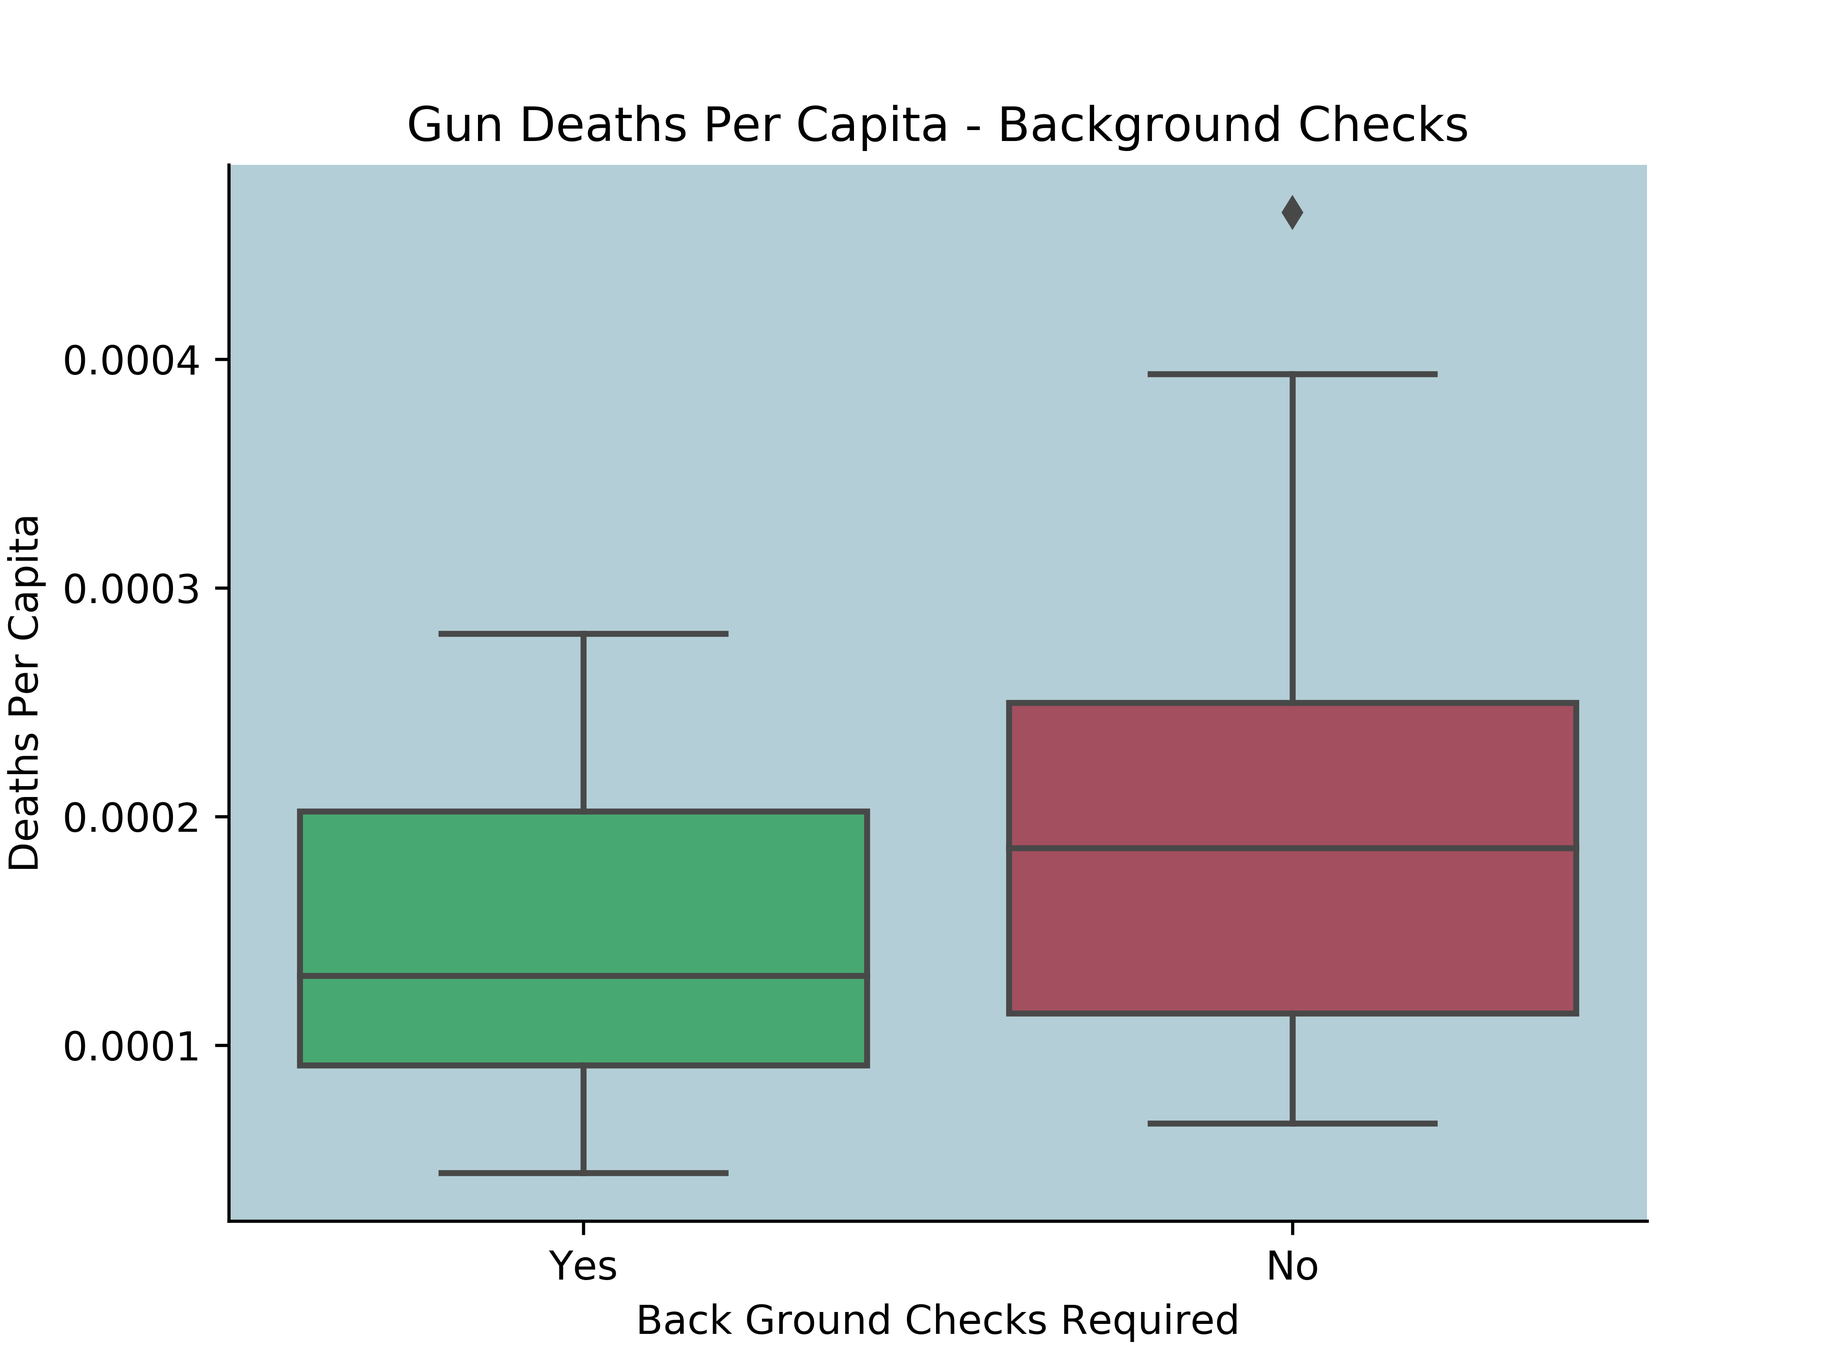
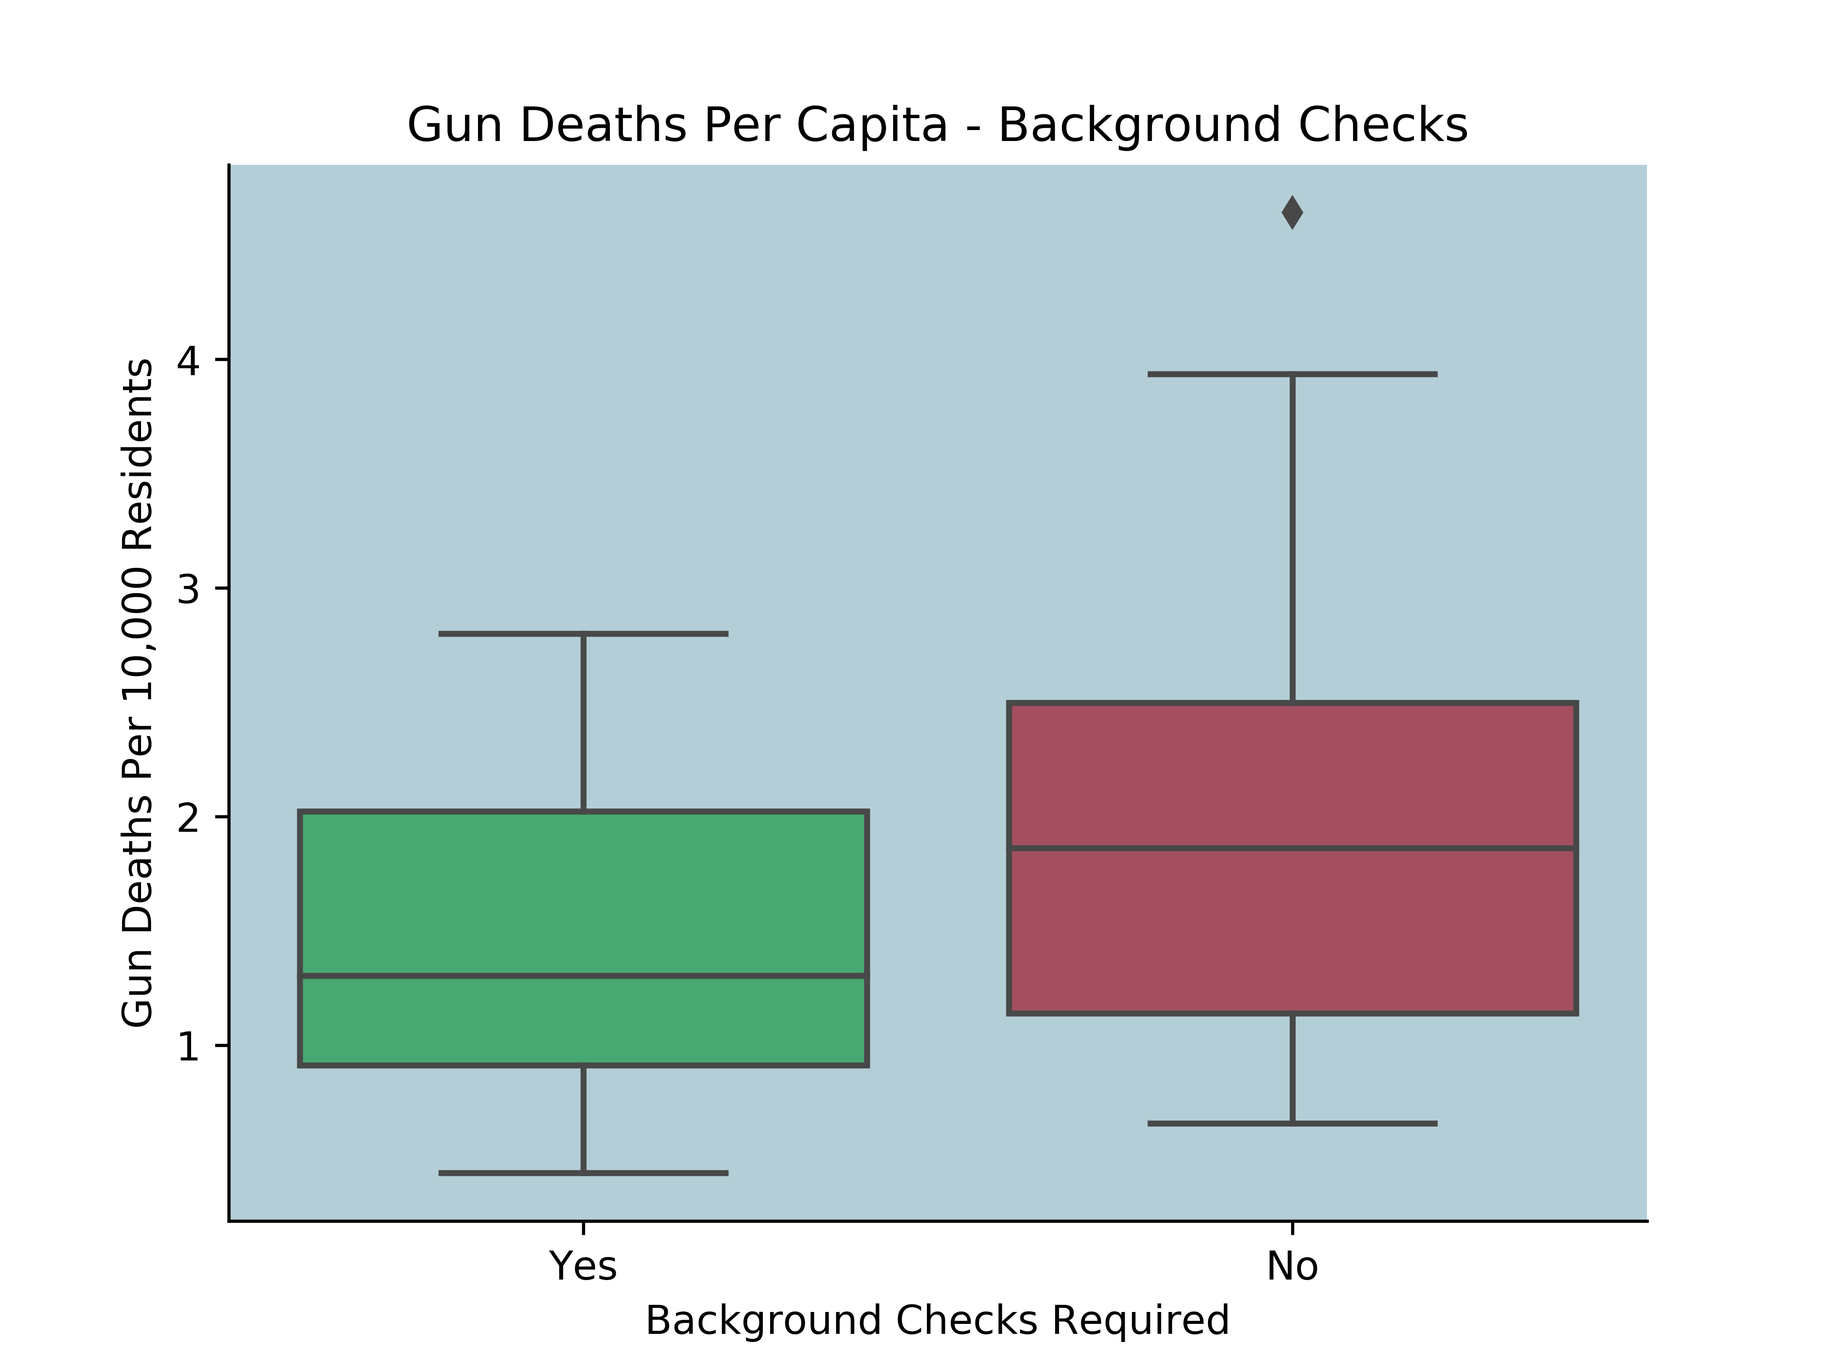
Completed writeup rought draft.

Changed region(s): [[0.0, 0.25, 0.0938, 0.7812], [0.3438, 0.9375, 0.6875, 1.0]]

diff --git a/explore/gunviolence.py b/explore/gunviolence.py
@@ -16,6 +16,7 @@ class GunViolenceTool(object):
 
         self.palette = palette_dicts.soft_colors
         self.box_pal = palette_dicts.box_plot_colors
+        self.box_pal_5 = palette_dicts.box_plot_colors_5
 
         # Loading in files
         self.cleaned_file = "../data/cleaned/gun_d_with_pop.csv"
@@ -53,7 +54,7 @@ class GunViolenceTool(object):
         else:
             self.deaths_w_pop = pd.read_csv(self.cleaned_file)
 
-# Data Cleaning Methods --------
+# Data Cleaning Methods --------------------------------------------------------
 
     def make_population_dataset(self, out_path):
         fpath = "../data/cleaned/tmp.csv"
@@ -83,6 +84,7 @@ class GunViolenceTool(object):
 
     def bgc_t_test(self, df):
         df["d_per_capita"] = df["n_killed"] / df["st_pop"]
+        df["Gun Deaths Per 10000 Residents"] = df["d_per_capita"] * 10000
         df_bgc = df.loc[df["bg_check"] == 1]
         df_no_bgc = df.loc[df["bg_check"] == 0]
 
@@ -92,8 +94,20 @@ class GunViolenceTool(object):
         print(f"P Value: {p_val}")
         return(df)
 
+
+    def state_rank_anova(self, df):
+        df["d_per_capita"] = df["n_killed"] / df["st_pop"]
+        df["Gun Deaths Per 10000 Residents"] = df["d_per_capita"] * 10000
+        df = self.set_state_rank_colors(df)
+        groups = df.groupby("rank_group")
+        rank_groups = [data[1]["d_per_capita"] for data in groups]
+        print(rank_groups)
+        F, p = stats.f_oneway(rank_groups[0], rank_groups[1], rank_groups[2],
+                              rank_groups[3], rank_groups[4])
+        print(f"F Stat: {F}")
+        print(f"p value: {p}")
+
 # Modeling Methods -------------------------------------------------------------
-# sklearn
 
     def death_pop_reg(self):
 
@@ -101,7 +115,10 @@ class GunViolenceTool(object):
                        self.deaths_w_pop["st_pop"]).fit()
 
         predictions = model.predict(self.deaths_w_pop["st_pop"])
+        print(predictions)
+        print(predictions.params)
         return model.summary()
+
 
 # Plotting Helper Methods ------------------------------------------------------
 
@@ -275,12 +292,26 @@ class GunViolenceTool(object):
         df = self.set_bgc_colors(df)
         df = self.bgc_t_test(df)
         df["bgc_text"] = np.where(df["bg_check"] == 1, "Yes", "No")
-        ax = sns.boxplot(df["bgc_text"], df["d_per_capita"], data=df,
-                         palette=self.box_pal)
+        ax = sns.boxplot(df["bgc_text"], df["Gun Deaths Per 10000 Residents"],
+                         data=df, palette=self.box_pal)
         ax.set_facecolor(self.palette["back_grey"])
         sns.despine()
         plt.title("Gun Deaths Per Capita - Background Checks")
-        plt.xlabel("Back Ground Checks Required")
-        plt.ylabel("Deaths Per Capita")
+        plt.xlabel("Background Checks Required")
+        plt.ylabel("Gun Deaths Per 10,000 Residents")
         plt.savefig('../figs/bgc_box.png', format="png", dpi=600)
+        plt.show()
+
+
+    def state_rank_box_plot(self, df):
+        df = self.set_state_rank_colors(df)
+        df = self.bgc_t_test(df)
+        ax = sns.boxplot(df["rank_group"], df["Gun Deaths Per 10000 Residents"],
+                         data=df, palette=self.box_pal_5)
+        ax.set_facecolor(self.palette["back_grey"])
+        sns.despine()
+        plt.title("Gun Deaths Per Capita - State Rank")
+        plt.xlabel("State Gun Law Rank")
+        plt.ylabel("Gun Deaths Per 10,000 Residents")
+        plt.savefig('../figs/st_rank_box.png', format="png", dpi=600)
         plt.show()

diff --git a/explore/palette_dicts.py b/explore/palette_dicts.py
@@ -21,3 +21,11 @@ box_plot_colors = [
                    "#38b86e",
                    "#b14156",
                   ]
+
+box_plot_colors_5 = [
+                     "#405bd0",
+                     "#38b86e",
+                     "#ffd079",
+                     "#ee7b58",
+                     "#b14156"
+                    ]

diff --git a/explore/rungun.py b/explore/rungun.py
@@ -1,4 +1,4 @@
 from gunviolence import GunViolenceTool
 
 gvt = GunViolenceTool()
-print(gvt.bgc_box_plot(gvt.deaths_w_pop))
+print(gvt.state_rank_anova(gvt.deaths_w_pop))

diff --git a/docs/writeup/README.md b/docs/writeup/README.md
@@ -56,21 +56,44 @@ The regression plots with custom `matplotlib` styling code in this project are c
 
 ## Results
 
-The first analysis run was to determine whether or not a single policy could be enacted in order to diminish the number of gun deaths in a particular state. In order to accomplish this an Ordinary Least Squares (OLS) linear regression model was created, using state population as the predictor variable. The regression determined that a population increase of x resulted in a increase of y gun deaths per each state. Though it could be argued that this is an imperfect collection of variables, and that variables such as population density within a state, or percentage of urban population within a state could be more predictive of the amount of gun deaths a state has had within the last five years these metrics were not gathered for the analysis, relying instead on the assumption that these factors would be normally distributed throughout the states, and would therefore not strongly effect the analysis.
+### Background Checks.
+
+The first analysis run was to determine whether or not a single policy could be enacted in order to diminish the number of gun deaths in a particular state. In order to accomplish this an Ordinary Least Squares (OLS) linear regression model was created, using state population as the predictor variable (F(1, 49) = 439.3, 0.000) with an R<sup>2</sup> of 0.900). The regression determined that a population increase of 5,000 resulted in a increase of 1 gun death per each state (over the five year period from which the data was gathered). Though it could be argued that this is an imperfect collection of variables, and that variables such as population density within a state, or percentage of urban population within a state could be more predictive of the amount of gun deaths a state has had within the last five years these metrics were not gathered for the analysis, relying instead on the assumption that these factors would be normally distributed throughout the states, and would therefore not strongly effect the analysis.
 
 |![Figure1-1](/figs/bgc_reg.png) |
 |:--:|
 | _Back Ground Checks Regression Plot_ |
 |_Above: A scatterplot with a regression line drawn, expressing the relationship between state population and the amount of gun deaths in that state. Red points indicate states without background checks for firearm purchases. Green points indicate states states that require background checks for firearm purposes._|
 
-After the regression analysis was run, the data was split into two groups: states that required background checks in order to purchase a firearm, and states that did not. States that did not require background checks were assigned as the control group, and states that did were assigned as the treatment group. An independent t-test was run on the two groups, the null Hypothesis being that background checks being required for the purchase of a firearm in a state had no effect on the amount of gun deaths in that state. The t-test results indicated a t-statistic of 2.1418, with a p-value of < .05, indicating a statistically significant difference. The null hypothesis was therefore rejected, and we can say that background check requirements in a particular state do have an effect on the amount of gun deaths that happened within that state.
+After the regression analysis was run, the data was split into two groups: states that required background checks in order to purchase a firearm, and states that did not. States that did not require background checks were assigned as the control group, and states that did were assigned as the treatment group. An independent t-test was run on the two groups, the null hypothesis being that background checks being required for the purchase of a firearm in a state had no effect on the amount of gun deaths in that state. The t-test results indicated a t-statistic of -2.1418, with a p-value of < .05, indicating a statistically significant difference. The null hypothesis was therefore rejected, and we can say that background check requirements in a particular state do have an effect on the amount of gun deaths that happened within that state. Furthermore, this significant difference indicates states with background checks have less gun deaths per capita than states that do not require them.
 
 |![Figure1-2](/figs/bgc_box.png) |
 |:--:|
 | _Back Ground Checks Regression Plot_ |
-|_Above: A box plot, showing the differences in means, variances, maximums and minimums in the amount of gun deaths per capita in states that require background checks for the purchase of firearms and those that do not._|
+|_Above: A box plot, showing the differences in means, variances, maximums and minimums in the amount of gun deaths per capita in states that require background checks for the purchase of firearms and those that do not. **It is worth pointing out that the y axis is not counting yearly deaths. These numbers were recorded over a period of five years.**_|
+
+### State Law Ranking
+
+The same regression plot was generated for visualizing state law rankings. The scatter plot was colored differently to indicate which states had the most restrictive ranking of gun laws, to those of which had the least restrictive. Some interesting trends came to light as a result of the visualization. It appears that the higher a state population, the less likely it is to have the least restrictive gun laws. This perhaps makes sense because per capita deaths in highly populated states are a lot larger in raw numbers than they are for their lest populated counterparts. Another point to note is that Illinois is in the top ten rank for state gun law ranks, but falls very high above it's predicted value. This is nearly the inverse of New York, which scores similarly with respect to gun law rank, but seems to fall far below it's predicted value in terms of gun deaths. This discrepancy might be worth looking into to see what other factors might play a role in reducing the amount of gun deaths.
 
 | ![Figure1-3](/figs/strank_reg.png) |
 |:--:|
 | _State Rank Regression Plot_ |
 |_Above: A scatterplot with a regression line drawn, expressing the relationship between state population and the amount of gun deaths in that state. Colors from cool (blue) to warm (red) indicate the Gifford's law center ranking, with blue being the highest to red being the lowest._|
+
+After the regression analysis was run, the data was split into their five groups according to their gun policy state law ranking. An ANOVA test was run between the groups to determine if there was a statistically significant difference in per capita gun deaths. The ANOVA results indicated a F-statistic of 1.839, with a p-value of 0.1379, greater than the .05 alpha level required for statistical significance. We therefore do not reject the null hypothesis. Further evidence needs to be gathered in order to validate the rankings given to take gun laws by Giffords Law Center if they wish to validate their rankings empirically.
+
+| ![Figure1-3](/figs/st_rank_box.png) |
+|:--:|
+| _State Rank Regression Plot_ |
+|_Above: A box plot, showing the differences in means, variances, maximums and minimums in the amount of gun deaths per capita in states with differing gun laws. Colors from cool (blue) to warm (red) indicate the Gifford's law center state ranking, with blue being the highest to red being the lowest._|
+
+## Discussion
+
+Though a statistically significant result was found in reducing the amount of gun deaths per capita when it came to implementing background check requirements, the same story could not be told when implementing other gun regulations more broadly. A reason for this could be that other measures are not as effective in reducing gun deaths as background checks are, another may be that states with more relaxed gun laws have never had a problem with gun violence before, be it because of their lower populations, or because of other variables such as population density, percentage of urban versus rural populations, or being geographically located near other states with stricter or less strict gun regulations, and are therefore less likely to enact gun regulations.
+
+There are certainly more variables than state population that could play a role in predicting gun deaths. Other work when looking into the empirical effects of gun policy would do well to take these effects into consideration.
+
+Though the ANOVA test for state law ranks did not indicate a statistically significant result, the box plot generated with the ANOVA shows that there is much higher variability in the amount of gun deaths in the lowest rank states than in the highest. This is an interesting finding, and might be worth further exploring.
+
+Delving into the data on gun violence did provide some evidence that background checks are an effective measure at reducing gun violence. This information, however, is still unable to move the needle on the debate when it comes to whether or not that prevention of loss of life is worth the tradeoff in freedom that requiring background checks would implement. As mentioned before in the introduction, data can aid us in our decision making, but it is unable to tell us what is morally correct, or what is legally pragmatic. There are still plenty of other avenues to be explored within this dataset, and I would again like to thank the uploader of this data, Kaggle User, James Ko, for both the inspiration and the ability to complete this project.

diff --git a/docs/writeup/SUMMARY.md b/docs/writeup/SUMMARY.md
@@ -1,0 +1,35 @@
+###### NOTE: For a full writeup, view the `README.md` file in this directory.
+
+## Results
+
+### Background Checks.
+
+The first analysis run was to determine whether or not a single policy could be enacted in order to diminish the number of gun deaths in a particular state. In order to accomplish this an Ordinary Least Squares (OLS) linear regression model was created, using state population as the predictor variable (F(1, 49) = 439.3, 0.000) with an r<sup>2</sup> of 0.900). The regression determined that a population increase of 5,000 resulted in a increase of 1 gun death per each state (over the five year period from which the data was gathered). Though it could be argued that this is an imperfect collection of variables, and that variables such as population density within a state, or percentage of urban population within a state could be more predictive of the amount of gun deaths a state has had within the last five years these metrics were not gathered for the analysis, relying instead on the assumption that these factors would be normally distributed throughout the states, and would therefore not strongly effect the analysis.
+
+|![Figure1-1](/figs/bgc_reg.png) |
+|:--:|
+| _Back Ground Checks Regression Plot_ |
+|_Above: A scatterplot with a regression line drawn, expressing the relationship between state population and the amount of gun deaths in that state. Red points indicate states without background checks for firearm purchases. Green points indicate states states that require background checks for firearm purposes._|
+
+After the regression analysis was run, the data was split into two groups: states that required background checks in order to purchase a firearm, and states that did not. States that did not require background checks were assigned as the control group, and states that did were assigned as the treatment group. An independent t-test was run on the two groups, the null hypothesis being that background checks being required for the purchase of a firearm in a state had no effect on the amount of gun deaths in that state. The t-test results indicated a t-statistic of -2.1418, with a p-value of < .05, indicating a statistically significant difference. The null hypothesis was therefore rejected, and we can say that background check requirements in a particular state do have an effect on the amount of gun deaths that happened within that state. Furthermore, this significant difference indicates states with background checks have less gun deaths per capita than states that do not require them.
+
+|![Figure1-2](/figs/bgc_box.png) |
+|:--:|
+| _Back Ground Checks Regression Plot_ |
+|_Above: A box plot, showing the differences in means, variances, maximums and minimums in the amount of gun deaths per capita in states that require background checks for the purchase of firearms and those that do not. **It is worth pointing out that the y axis is not counting yearly deaths. These numbers were recorded over a period of five years.**_|
+
+### State Law Ranking
+
+The same regression plot was generated for visualizing state law rankings. The scatter plot was colored differently to indicate which states had the most restrictive ranking of gun laws, to those of which had the least restrictive. Some interesting trends came to light as a result of the visualization. It appears that the higher a state population, the less likely it is to have the least restrictive gun laws. This perhaps makes sense because per capita deaths in highly populated states are a lot larger in raw numbers than they are for their lest populated counterparts. Another point to note is that Illinois is in the top ten rank for state gun law ranks, but falls very high above it's predicted value for gun deaths based on it's state population. This is nearly the inverse of New York, which scores similarly with respect to gun law rank, but seems to fall far below it's predicted value in terms of gun deaths. This discrepancy might be worth looking into to see what other factors might play a role in reducing the amount of gun deaths.
+
+| ![Figure1-3](/figs/strank_reg.png) |
+|:--:|
+| _State Rank Regression Plot_ |
+|_Above: A scatterplot with a regression line drawn, expressing the relationship between state population and the amount of gun deaths in that state. Colors from cool (blue) to warm (red) indicate the Gifford's law center ranking, with blue being the highest to red being the lowest._|
+
+After the regression analysis was run, the data was split into their five groups according to their gun policy state law ranking. An ANOVA test was run between the groups to determine if there was a statistically significant difference in per capita gun deaths. The ANOVA results indicated a F-statistic of 1.839, with a p-value of 0.1379, greater than the .05 alpha level required for statistical significance. We therefore do not reject the null hypothesis. Further evidence needs to be gathered in order to validate the rankings given to take gun laws by Giffords Law Center if they wish to justify their state rankings empirically.
+
+| ![Figure1-3](/figs/st_rank_box.png) |
+|:--:|
+| _State Rank Regression Plot_ |
+|_Above: A box plot, showing the differences in means, variances, maximums and minimums in the amount of gun deaths per capita in states with differing gun laws. Colors from cool (blue) to warm (red) indicate the Gifford's law center state ranking, with blue being the highest to red being the lowest._|
